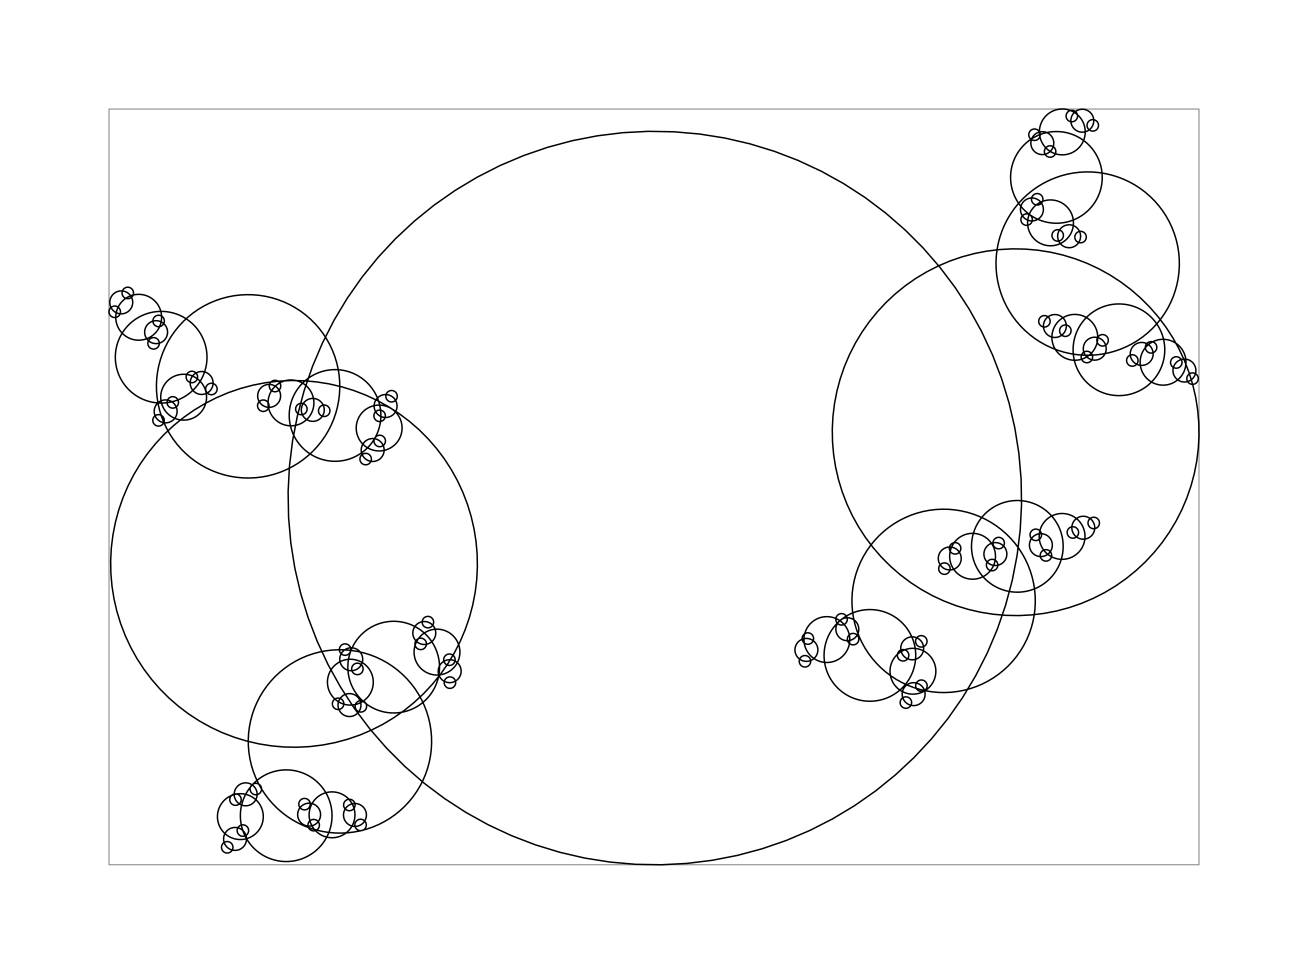
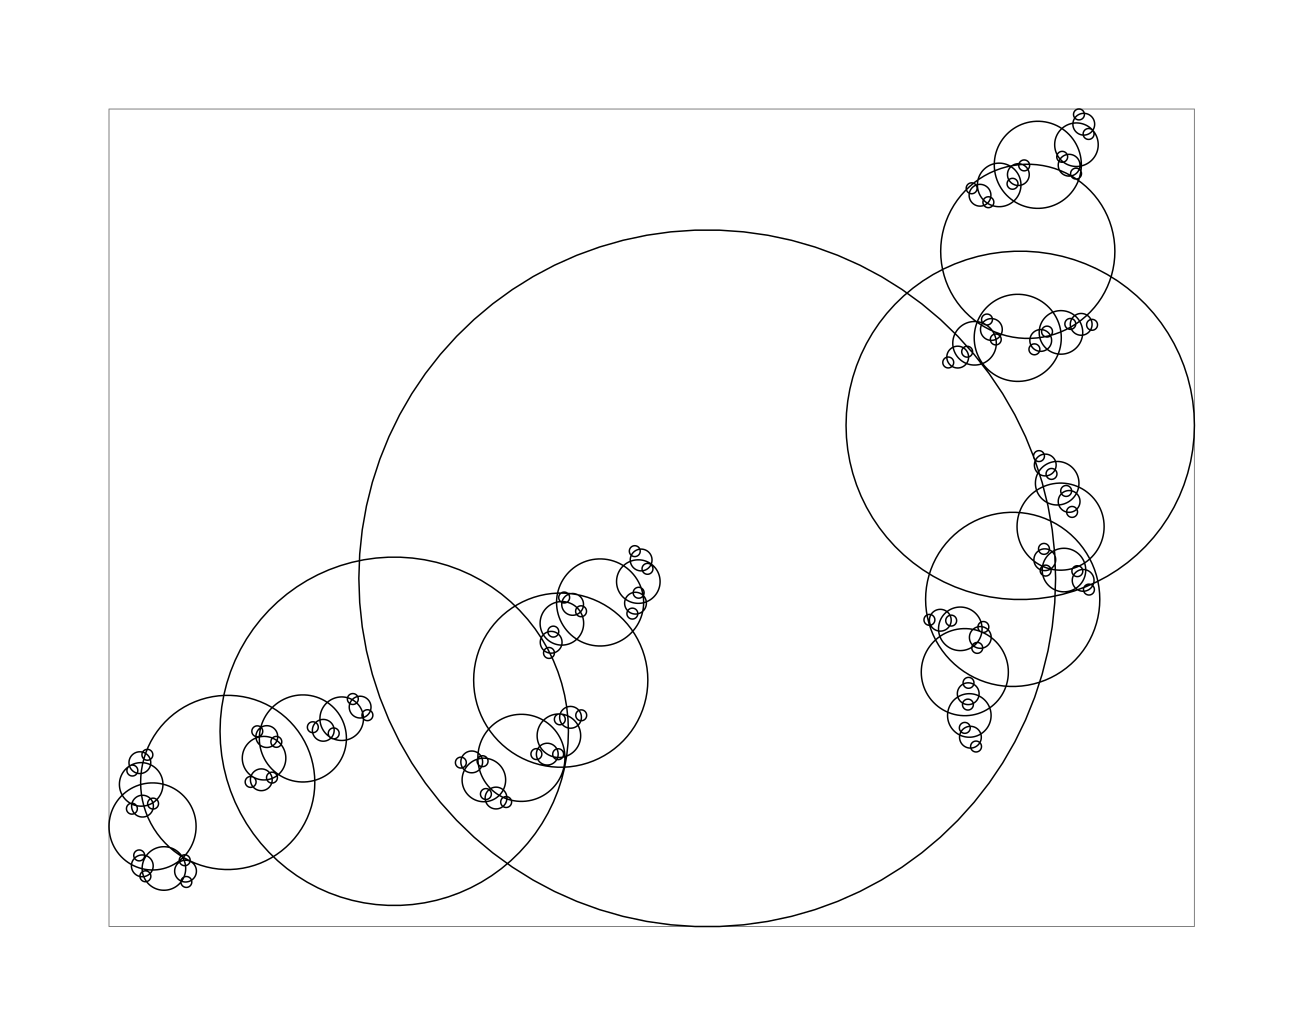
tenprint with pathmerge

diff --git a/utils.py b/utils.py
@@ -1,0 +1,26 @@
+def merge_paths(paths):
+    print(f"BEFORE MERGE: {len(paths)-1} pen lifts")
+    frontier = paths.copy()
+    finished = []
+    while len(frontier) > 0:
+        curr = frontier.pop(0)
+        changed = False
+        for other in frontier:
+            new_path = None
+            if curr[0] == other[0]:
+                new_path = curr[:0:-1] + other
+            elif curr[0] == other[-1]:
+                new_path = other[:-1] + curr
+            elif curr[-1] == other[0]:
+                new_path = curr[:-1] + other
+            elif curr[-1] == other[-1]:
+                new_path = curr + other[-2::-1]
+            if new_path is not None:
+                frontier.remove(other)
+                frontier.append(new_path)
+                changed = True
+                break
+        if not changed:
+            finished.append(curr)
+    print(f"AFTER MERGE: {len(finished)-1} pen lifts")
+    return finished

diff --git a/ten_print.py b/ten_print.py
@@ -1,5 +1,6 @@
 import axi
 import random
+from utils import merge_paths
 
 
 def tile(x, y, w, h):
@@ -22,10 +23,12 @@ def ten_print(rows, cols):
 
 
 def main():
-    paths = ten_print(50, 50)
-    drawing = axi.Drawing(paths).rotate_and_scale_to_fit(11, 8.5, 0.5).sort_paths()
+    paths = ten_print(30, 20)
+    paths = merge_paths(paths)
+    drawing = axi.Drawing(paths).scale_to_fit(11, 8.5, 1).sort_paths()
+    drawing = drawing.center(11, 8.5)
     im = drawing.render()
-    im.write_to_png('out.png')
+    # im.write_to_png('out.png')
     axi.draw(drawing)
 
 
